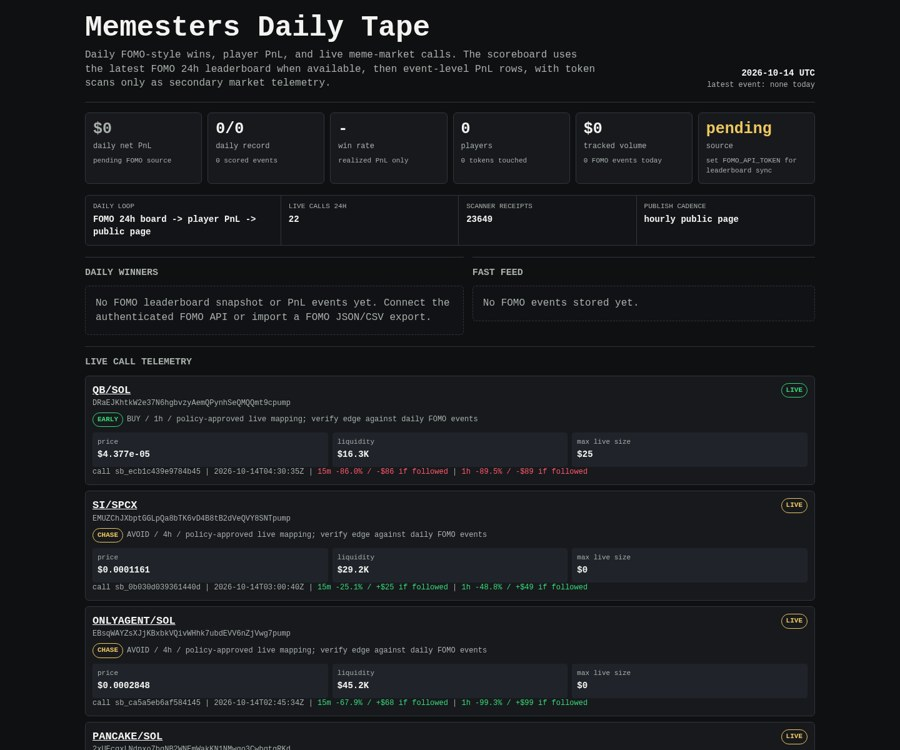
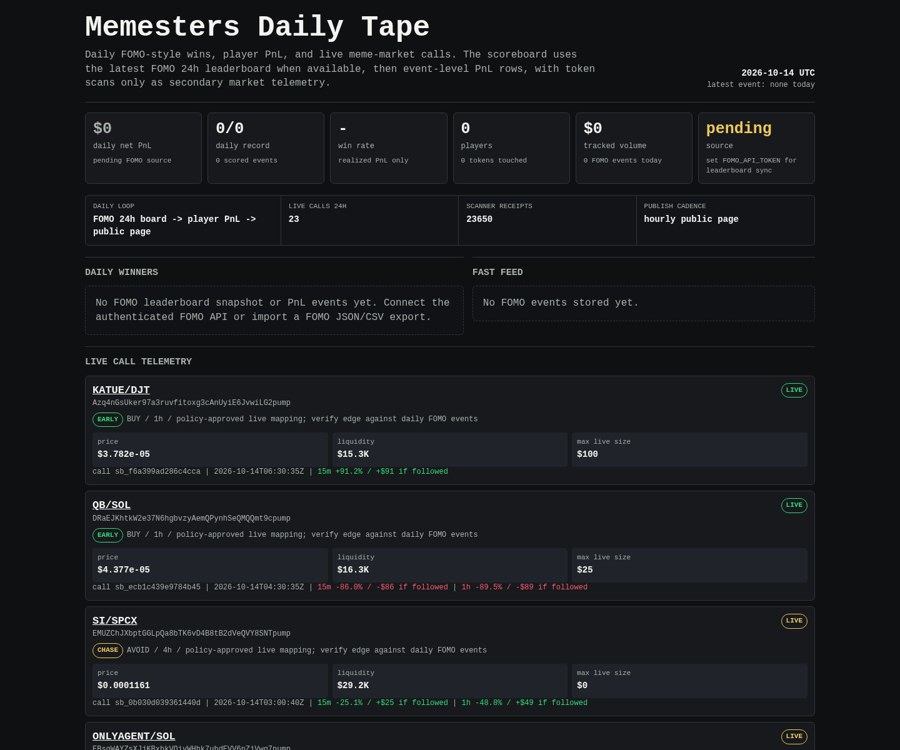
Update Memesters scoreboard

diff --git a/memesters/index.html b/memesters/index.html
@@ -149,8 +149,8 @@
 
     <div class="rail" aria-label="live operating loop">
       <div><span>daily loop</span><b>FOMO 24h board -> player PnL -> public page</b></div>
-      <div><span>live calls 24h</span><b>22</b></div>
-      <div><span>scanner receipts</span><b>23649</b></div>
+      <div><span>live calls 24h</span><b>23</b></div>
+      <div><span>scanner receipts</span><b>23650</b></div>
       <div><span>publish cadence</span><b>hourly public page</b></div>
     </div>
 
@@ -168,6 +168,27 @@
     <section style="margin-top: 18px;">
       <h2>Live Call Telemetry</h2>
       
+    <article class="receipt">
+      <div class="receipt-head">
+        <div>
+          <div class="pair"><a href="https://dexscreener.com/solana/3zwmb4qcybsbprwbzzjqkpqmkea13eabkbhbtumbwq2g">KATUE/DJT</a></div>
+          <div class="addr">Azq4nGsUker97a3ruvfitoxg3cAnUyiE6JvwiLG2pump</div>
+          <div class="addr policy-line">
+            <span class="badge early">EARLY</span>
+            <span>BUY / 1h / policy-approved live mapping; verify edge against daily FOMO events</span>
+          </div>
+        </div>
+        <span class="badge early">LIVE</span>
+      </div>
+      <div class="receipt-grid">
+        <div class="kv"><span>price</span><b>$3.782e-05</b></div>
+        <div class="kv"><span>liquidity</span><b>$15.3K</b></div>
+        <div class="kv"><span>max live size</span><b>$100</b></div>
+      </div>
+      <div class="outcomes">call sb_f6a399ad286c4cca | 2026-10-14T06:30:35Z | <span class="positive">15m +91.2% / +$91 if followed</span></div>
+    </article>
+    
+
     <article class="receipt">
       <div class="receipt-head">
         <div>
@@ -227,7 +248,7 @@
         <div class="kv"><span>liquidity</span><b>$45.2K</b></div>
         <div class="kv"><span>max live size</span><b>$0</b></div>
       </div>
-      <div class="outcomes">call sb_ca5a5eb6af584145 | 2026-10-14T02:45:34Z | <span class="positive">15m -67.9% / +$68 if followed</span> | <span class="positive">1h -99.3% / +$99 if followed</span></div>
+      <div class="outcomes">call sb_ca5a5eb6af584145 | 2026-10-14T02:45:34Z | <span class="positive">15m -67.9% / +$68 if followed</span> | <span class="positive">1h -99.3% / +$99 if followed</span> | <span class="positive">4h -99.3% / +$99 if followed</span></div>
     </article>
     
 
@@ -354,27 +375,6 @@
         <div class="kv"><span>max live size</span><b>$0</b></div>
       </div>
       <div class="outcomes">call sb_e5984b1ca64b491c | 2026-10-13T20:16:02Z | <span class="positive">15m -66.7% / +$67 if followed</span> | <span class="positive">1h -66.7% / +$67 if followed</span> | <span class="positive">4h -63.6% / +$64 if followed</span></div>
-    </article>
-    
-
-    <article class="receipt">
-      <div class="receipt-head">
-        <div>
-          <div class="pair"><a href="https://dexscreener.com/solana/fekoixy1okvxr4s9wtfarkvfsanyrrthahbvmmd1amqr">BORING/SOL</a></div>
-          <div class="addr">uDbS2LTc14oStv1SwSoLepJu75vjj7YgAXkyNcRpump</div>
-          <div class="addr policy-line">
-            <span class="badge rug-risk">RUG RISK</span>
-            <span>AVOID / 4h / policy-approved live mapping; verify edge against daily FOMO events</span>
-          </div>
-        </div>
-        <span class="badge rug-risk">LIVE</span>
-      </div>
-      <div class="receipt-grid">
-        <div class="kv"><span>price</span><b>$2.965e-05</b></div>
-        <div class="kv"><span>liquidity</span><b>$13.2K</b></div>
-        <div class="kv"><span>max live size</span><b>$0</b></div>
-      </div>
-      <div class="outcomes">call sb_54dfd9a4fa08497a | 2026-10-13T20:16:02Z | <span class="negative">15m +189.1% / -$189 if followed</span> | <span class="negative">1h +6.0% / -$6 if followed</span> | <span class="positive">4h -89.9% / +$90 if followed</span></div>
     </article>
     
     </section>
